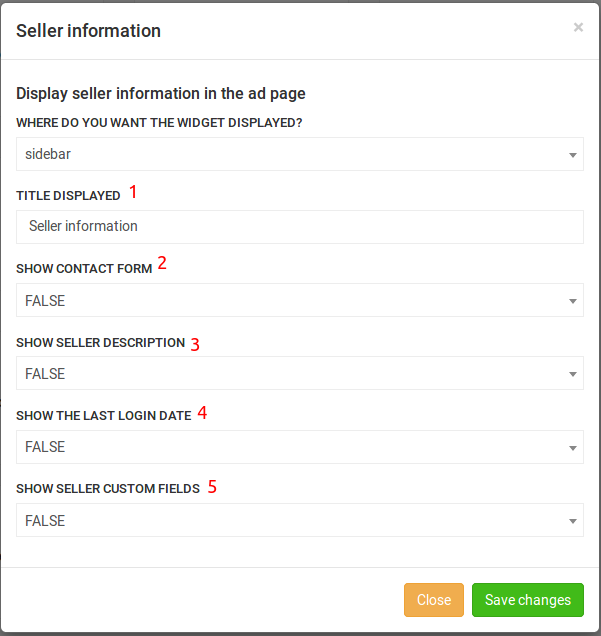
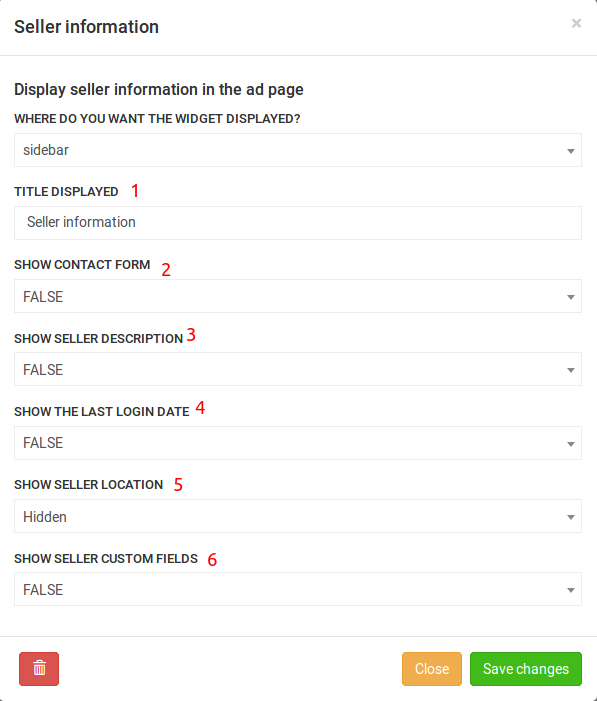
improve/update guide

diff --git a/seller-info-widget.md b/seller-info-widget.md
@@ -28,6 +28,13 @@ This new widget allows you to show seller information in the ad page. For exampl
 ![contactemail](//docs.yclas.com/images/seller-info-2.png)
 </a>
 
++ **Title displayed:** The title of the widget.
++ **Show contact form:** If set to TRUE, a button to open the contact form appears in the widget.
++ **Show seller description:** If set to TRUE, seller's description is displayed in the widget.
++ **Show the last login date:** Set to TRUE to show seller's last login date and time.
++ **Show seller location:** _Location on Map_ shows seller's location on a map and _Address_ shows only the address of the seller. It works only if the seller entered his address in his profile.
++ **Show seller custom fields:** Set to TRUE to show user custom fields.
+
 <a href="//docs.yclas.com/images/seller-info-3.png" class="thumbnail gallery-item" data-gallery>
 ![contactemail](//docs.yclas.com/images/seller-info-3.png)
 </a>
